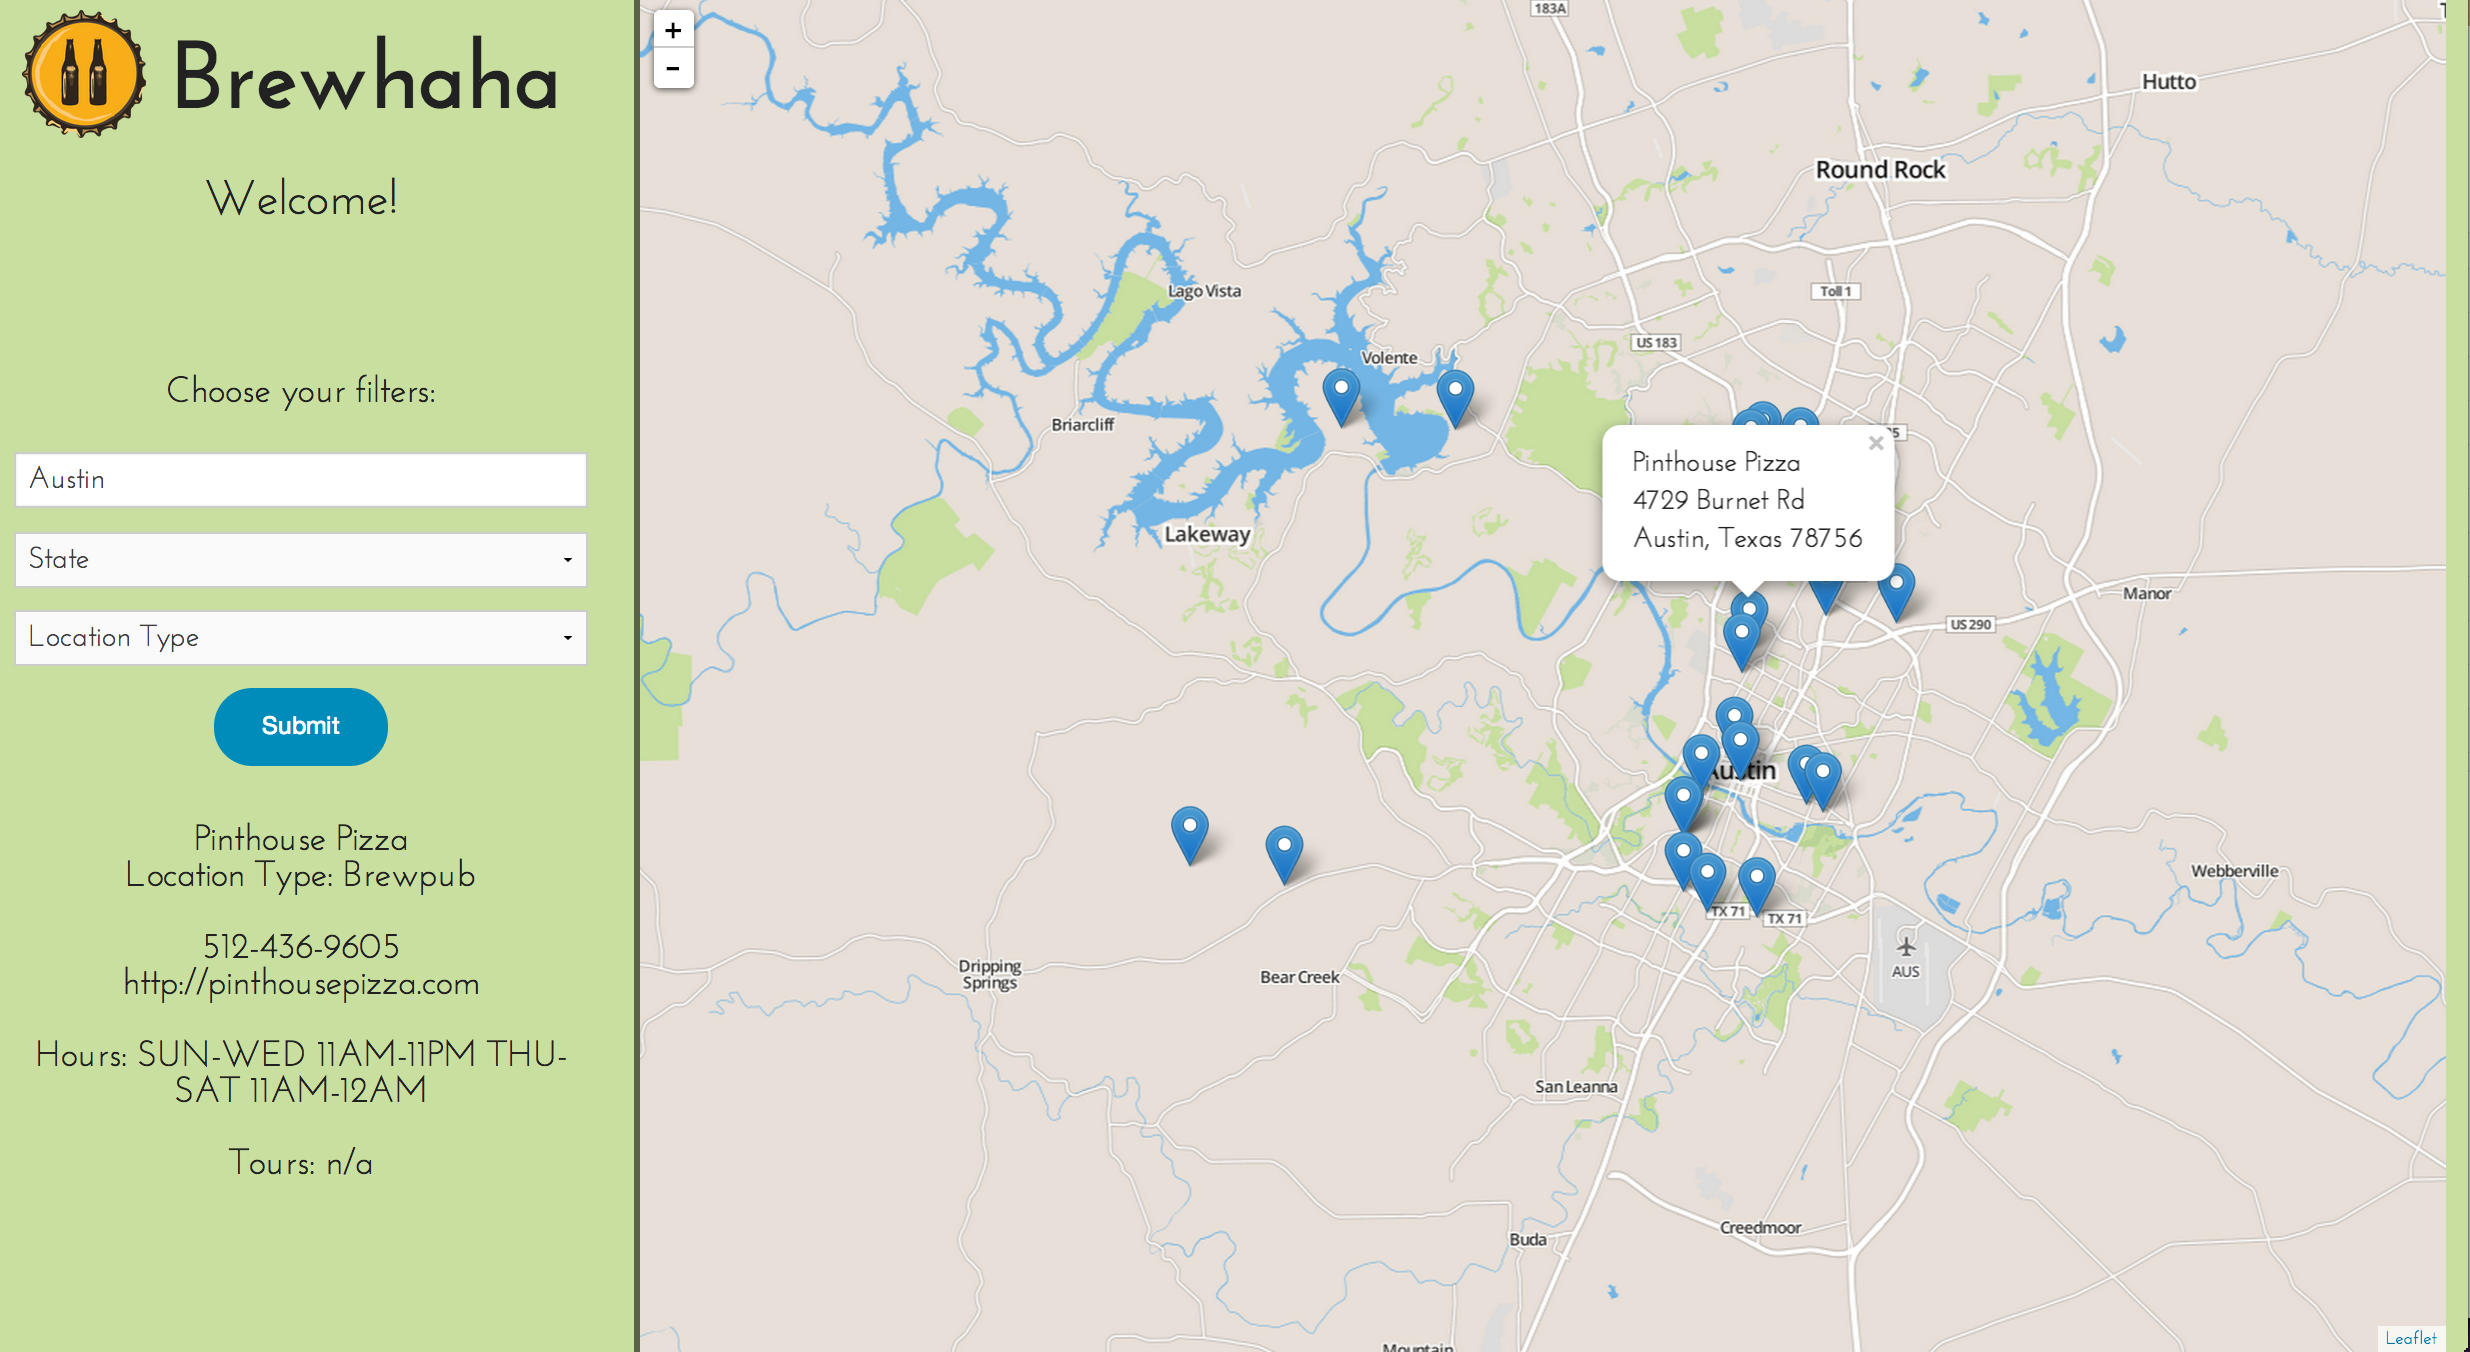
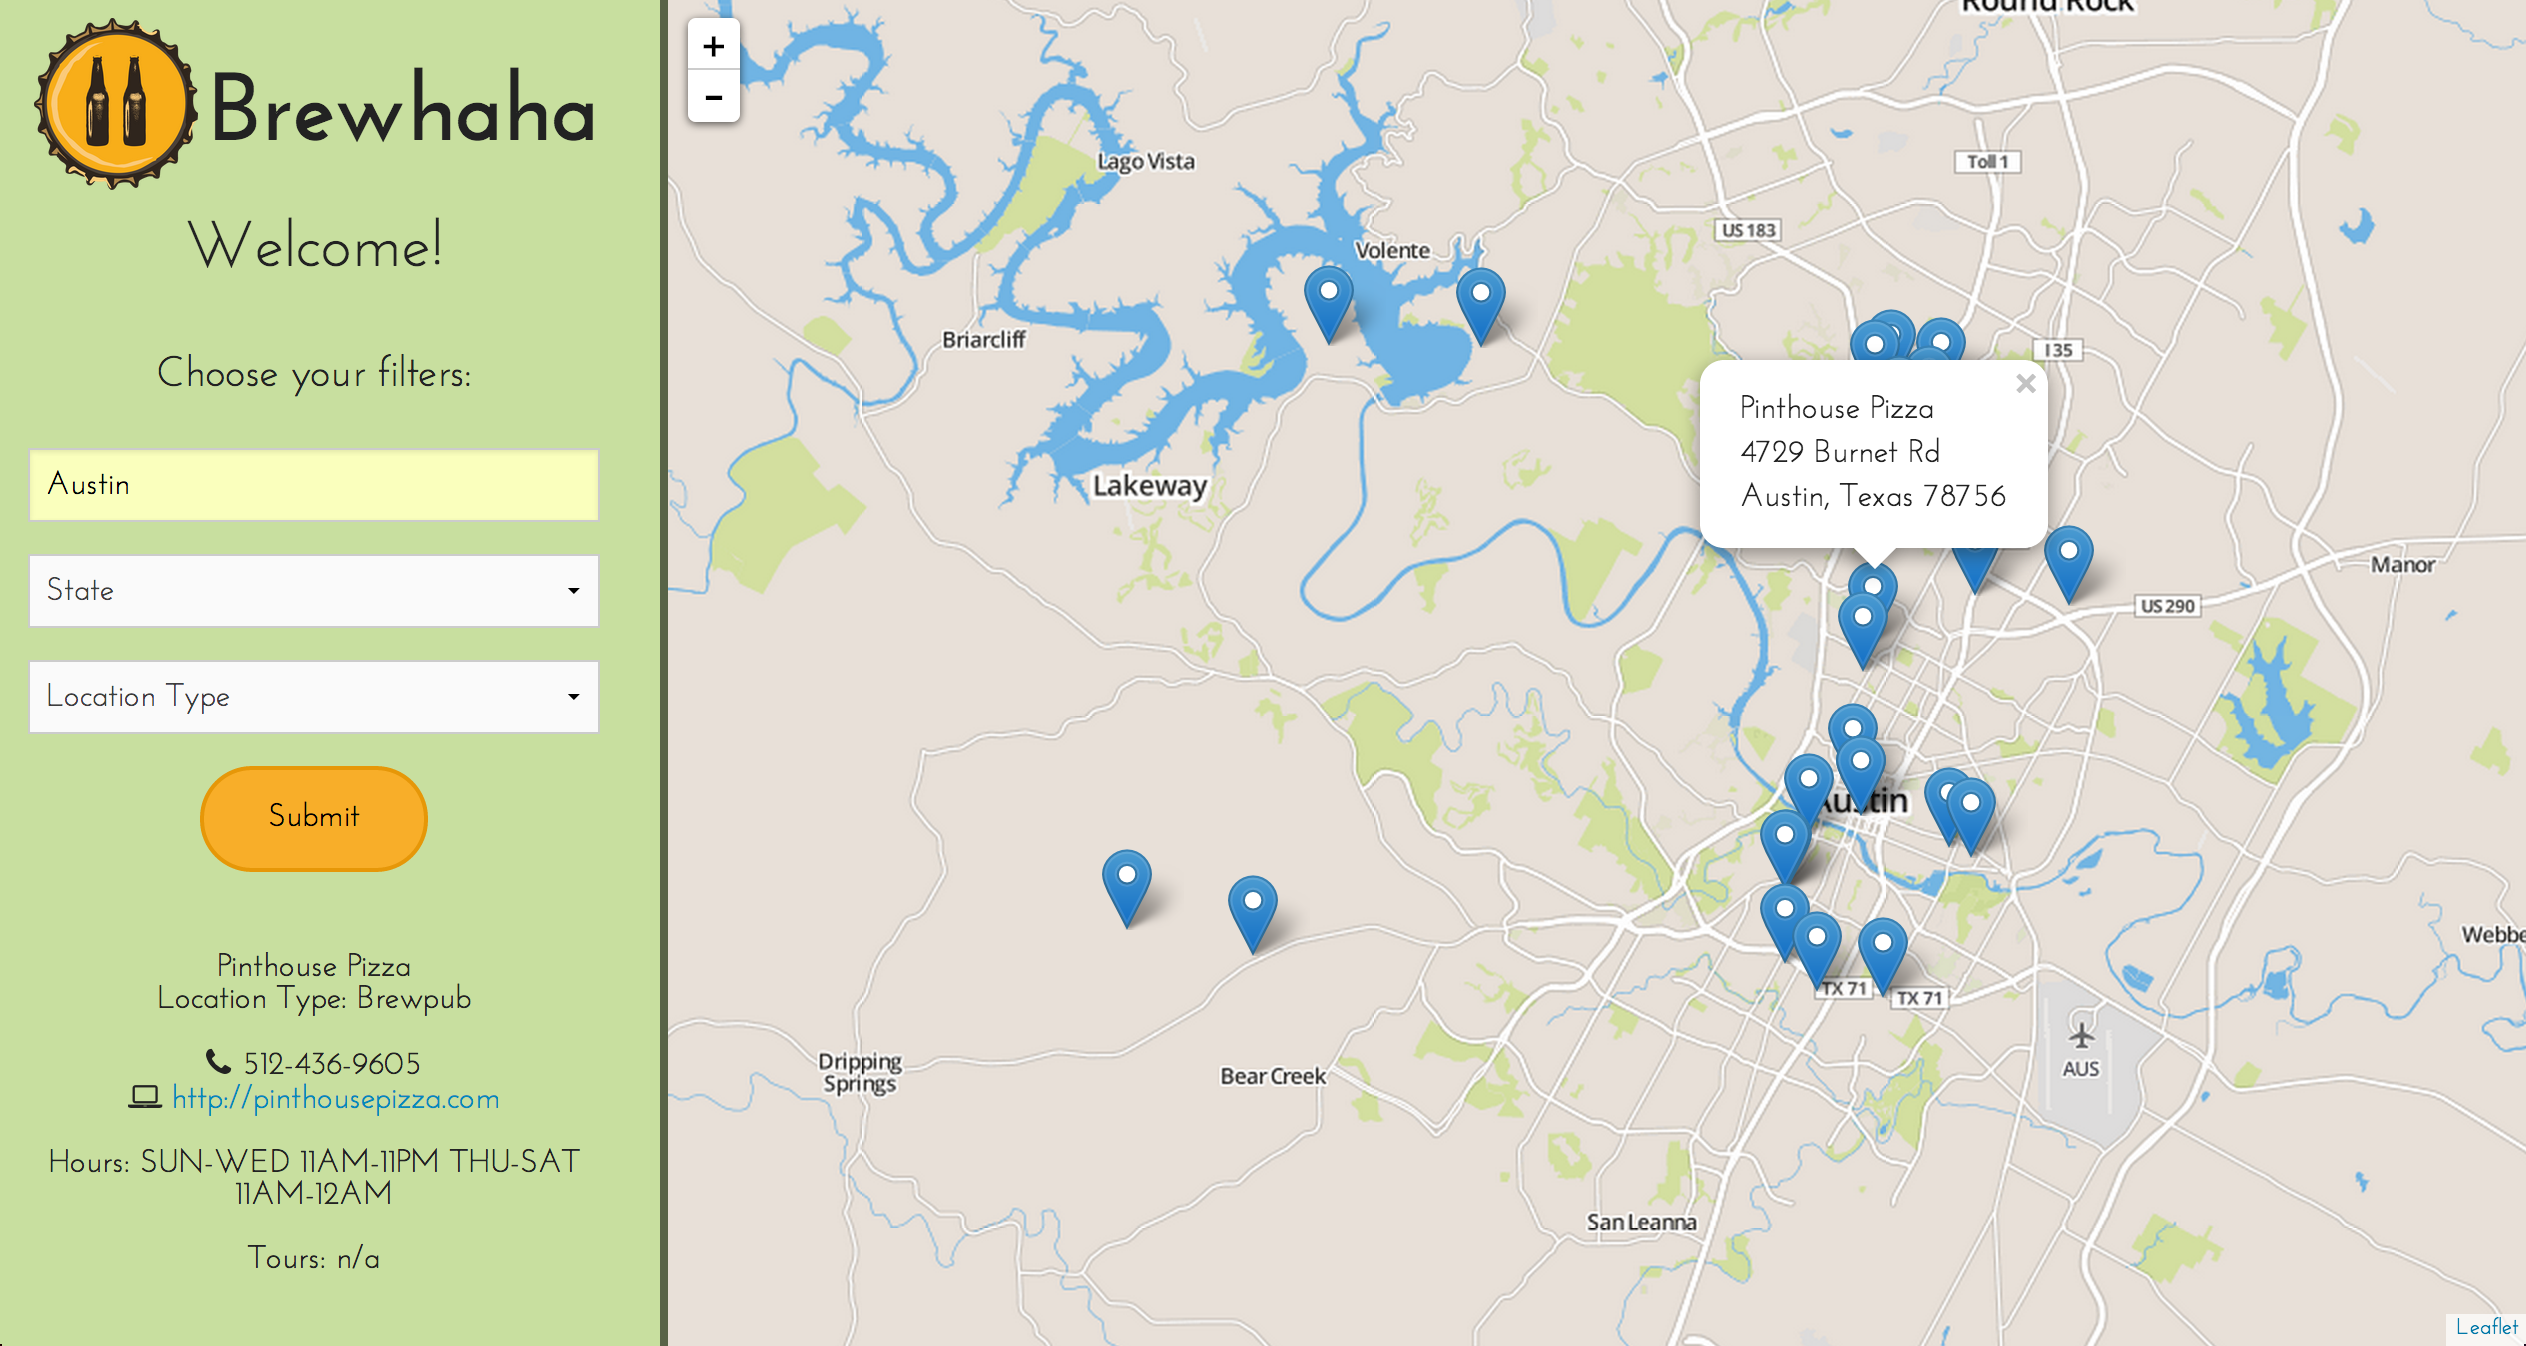
updated brewhaha link and screenshot

diff --git a/index.html b/index.html
@@ -94,14 +94,14 @@
 						</section>
 						<section class="6u feature">
 							<div class="image-wrapper">
-								<a href="#" class="image featured"><img src="images/brewhaha2014-08-09more_styling.png" alt="" / id="project"></a>
+								<a href="http://brewmap.herokuapp.com/" class="image featured"><img src="images/brewhaha.png" alt="" / id="project"></a>
 							</div>
 							<header>
 								<h2>Brewhaha</h2>
 							</header>
 							<p>Web application to find breweries based on user input. Accesses brewery details via an API and displays the information on a map. Built with Ruby, Sinatra, Javascript, HTML, CSS, ERB and Leaflet, a JavaScript mapping library.</p>
 							<ul class="actions">
-								<li><a href="#" class="button">Find a brewery</a></li>
+								<li><a href="http://brewmap.herokuapp.com/" class="button">Find a brewery</a></li>
 							</ul>
 						</section>
 					</div>
